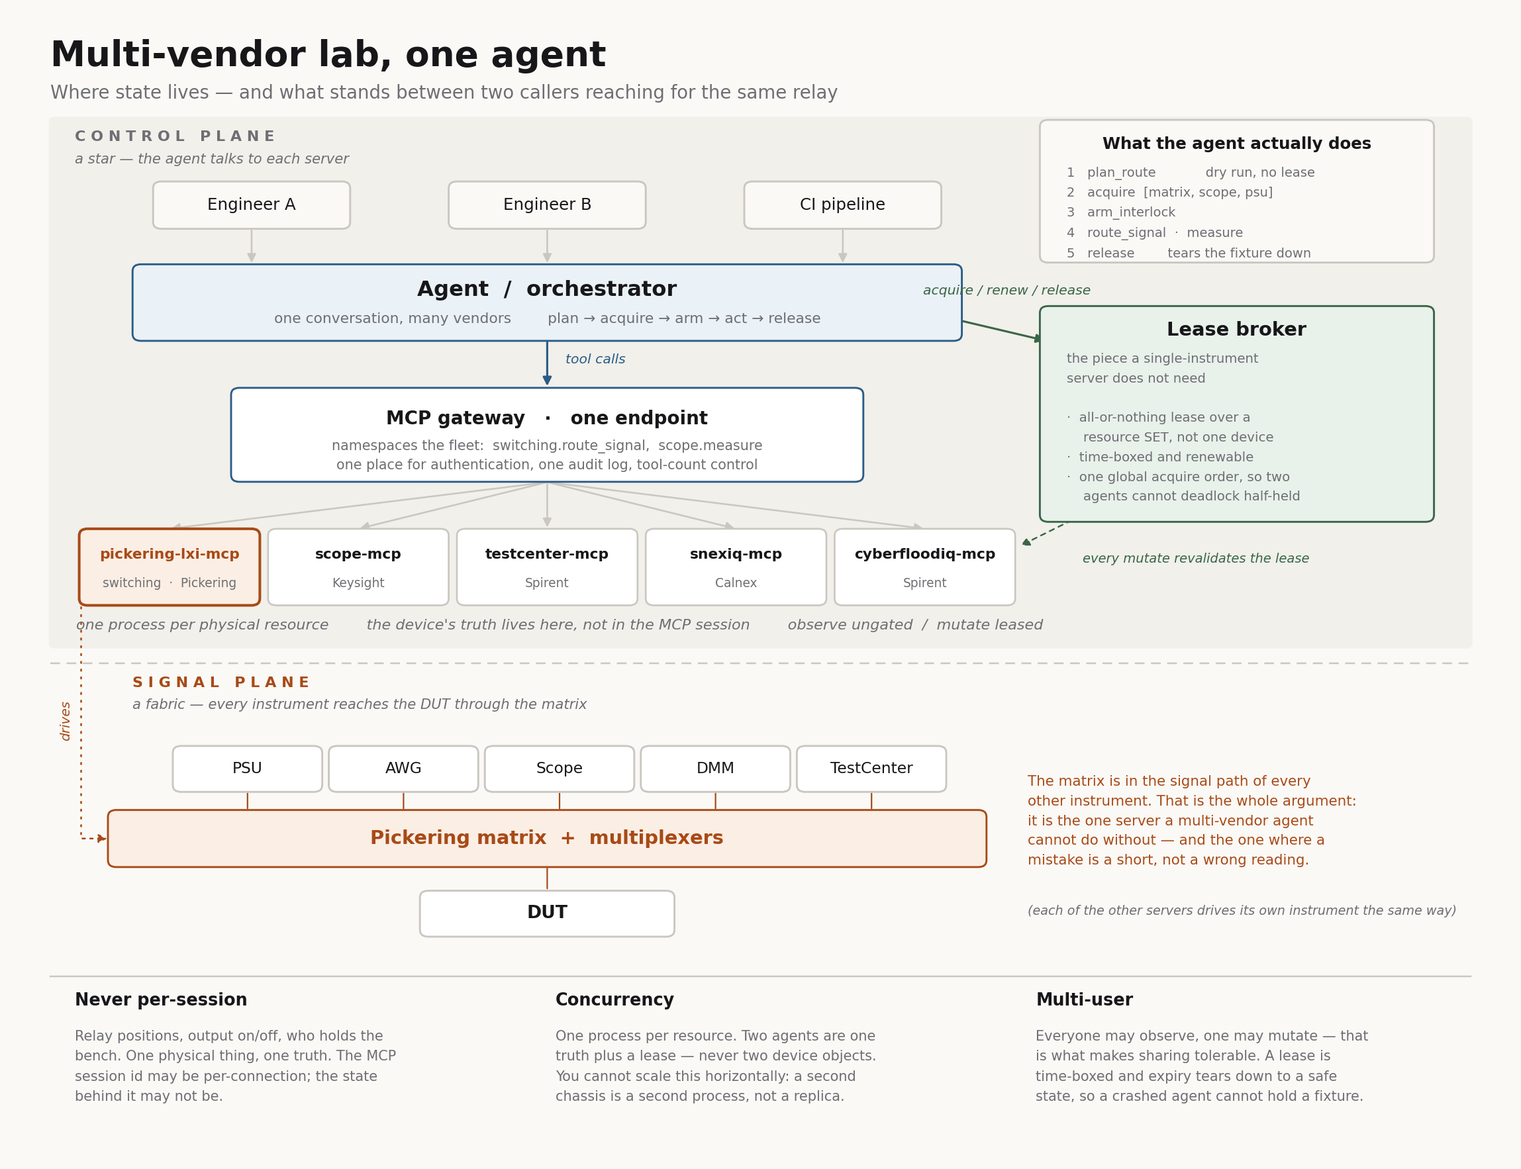
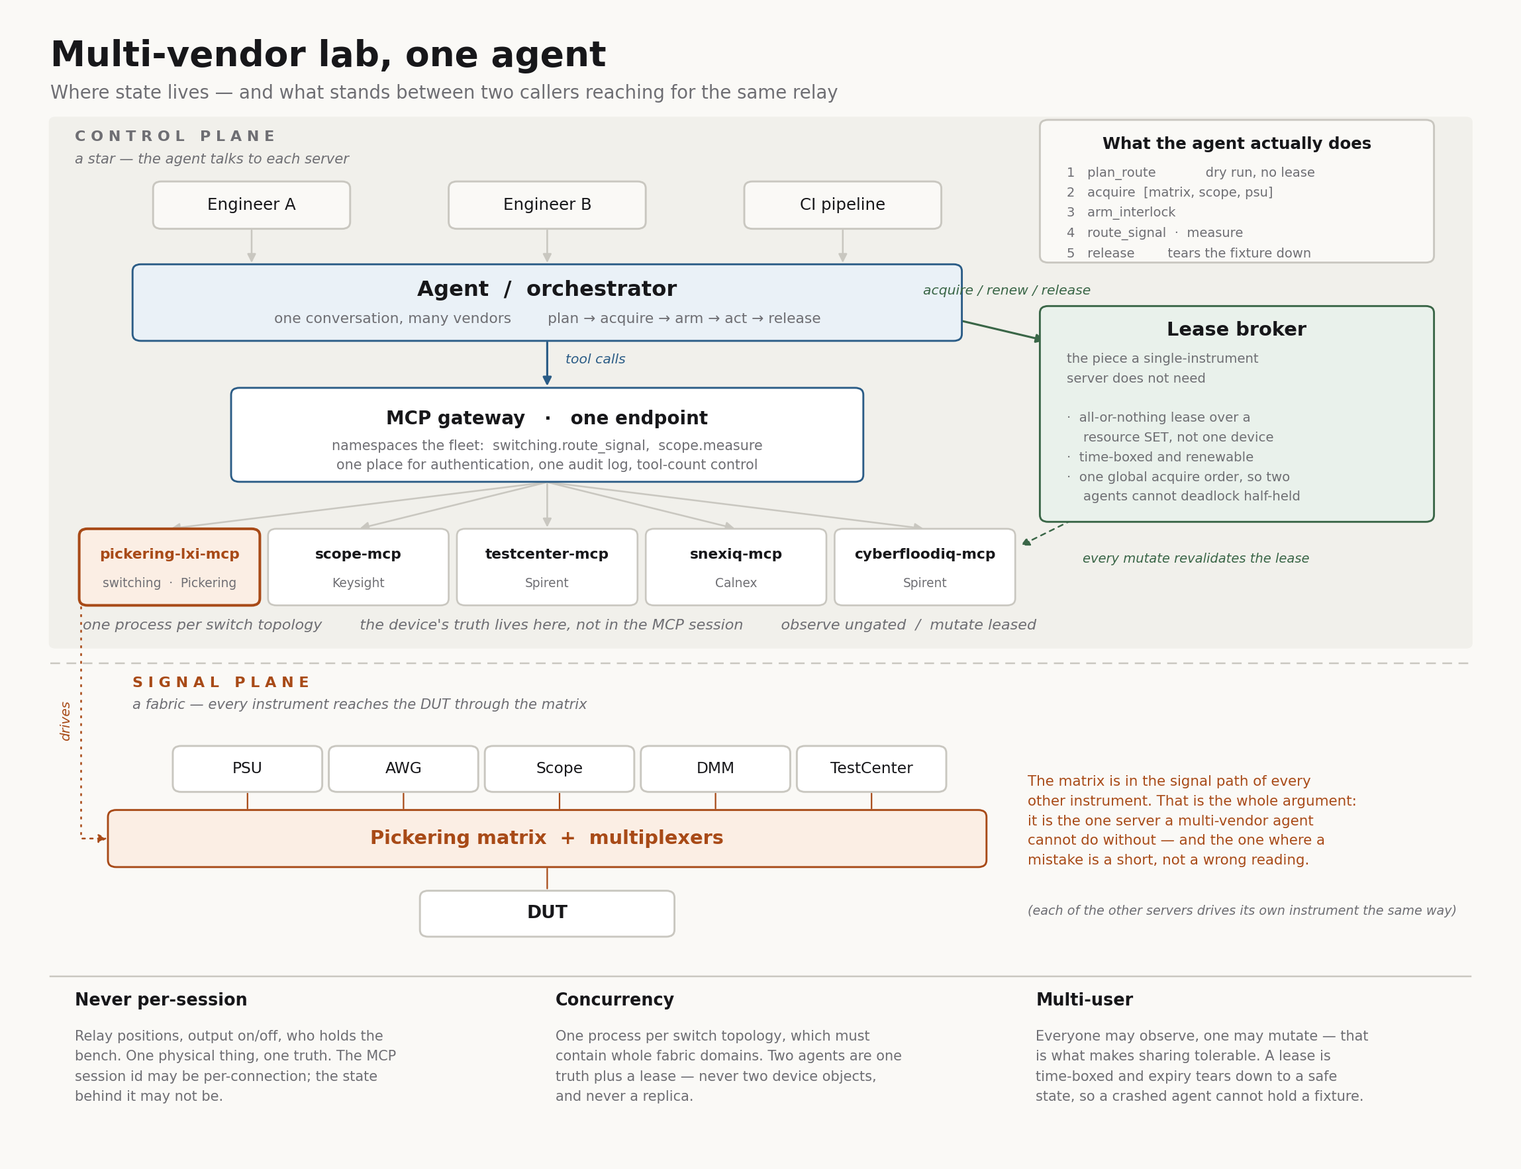
Draw the anatomy, and correct what a DUT bridge means
The picture: one bench with every term on it, keyed to a panel that names each
part. Chassis, card, subunit, line, crosspoint, endpoint, the two kinds of link,
the fabric domain drawn as a boundary around what it actually encloses, one
route, one refusal. Under it, the same bench as a single resource inside a test
topology. docs/switch-topology-anatomy.py renders it; GLOSSARY.md and README
lead with it.

The correction it forced. This glossary claimed a DUT joining two of its own
pins was an unenforceable hazard -- that no switching server could know, and
only a test topology could declare such a rule. The first half is right and the
second was wrong. A bridge is not discoverable, but it is declarable, in exactly
the shape of a patch lead: a link between the two lines those pins sit on. The
file never describes the DUT's internals, only that these two ends come out
common.

Declared, it merges the halves into one fabric domain and the interlock enforces
it like any other link. Two matrices, no patch lead, a forbidden pair spanning
them:

    UNDECLARED   domains=2   verify_topology: NOT ok, "can never fire"
       psu_pos -> dut_in     ok
       gnd     -> dut_out    ALLOWED     <- common through the DUT

    DECLARED     domains=1   verify_topology: ok
       psu_pos -> dut_in     ok
       gnd     -> dut_out    InterlockError

Which closes a loop from the previous commit rather than opening a new one: the
[…]

diff --git a/docs/switch-topology-anatomy.py b/docs/switch-topology-anatomy.py
@@ -1,0 +1,197 @@
+import matplotlib
+matplotlib.use("Agg")
+import matplotlib.pyplot as plt
+from matplotlib.patches import FancyBboxPatch, FancyArrowPatch, Circle
+from matplotlib.lines import Line2D
+
+BG, INK, MUTED, LINE = "#FAF9F6", "#17171A", "#6E6E73", "#C6C4BD"
+ACC, ACCF = "#A84A17", "#FBEEE4"
+GREEN, GREENF = "#3A6647", "#E9F1EB"
+RED = "#9A2F2F"
+DOM = "#EFE8DE"
+WHITE = "#FFFFFF"
+
+fig, ax = plt.subplots(figsize=(19.2, 14.4))
+fig.patch.set_facecolor(BG); ax.set_facecolor(BG)
+ax.set_xlim(0, 19.2); ax.set_ylim(0, 14.4); ax.axis("off")
+
+def rbox(x0, y0, x1, y1, edge=LINE, fill=WHITE, lw=1.3, r=0.10, z=2, ls="-"):
+    ax.add_patch(FancyBboxPatch((x0, y0), x1-x0, y1-y0,
+        boxstyle=f"round,pad=0.02,rounding_size={r}", linewidth=lw,
+        edgecolor=edge, facecolor=fill, zorder=z, linestyle=ls))
+
+def txt(x, y, s, size=9.2, color=INK, ha="left", va="center", weight=None,
+        style=None, rot=0, z=6, ls=1.55):
+    ax.text(x, y, s, fontsize=size, color=color, ha=ha, va=va, fontweight=weight,
+            style=style, rotation=rot, zorder=z, linespacing=ls)
+
+def tag(x, y, n, color=ACC):
+    ax.add_patch(Circle((x, y), 0.15, facecolor=color, edgecolor=WHITE, lw=1.0, zorder=8))
+    ax.text(x, y, str(n), fontsize=8.0, color=WHITE, ha="center", va="center",
+            fontweight="bold", zorder=9)
+
+txt(0.3, 14.02, "Anatomy of a switch topology", 24, INK, weight="bold")
+txt(0.3, 13.56, "One bench, every term. Numbers key to the panel on the right.", 12.2, MUTED)
+
+# ── fabric domain ────────────────────────────────────────────────────────
+rbox(1.85, 3.90, 13.05, 13.05, edge=ACC, fill=DOM, lw=1.5, r=0.16, z=0, ls=(0, (7, 4)))
+txt(2.15, 12.80, "F A B R I C   D O M A I N   ·   matrix_a/sub1", 10.2, ACC, weight="bold")
+txt(2.15, 12.52, "every line that the crosspoints, the patch lead and the declared bridge can tie together",
+    9, MUTED, style="italic")
+tag(12.78, 12.80, 10)
+
+# ── chassis ──────────────────────────────────────────────────────────────
+rbox(2.15, 7.15, 12.95, 12.30, edge=INK, fill="#F7F5F1", lw=1.6, r=0.12, z=1)
+txt(2.52, 12.08, "C H A S S I S   ·   LXI unit at 192.168.1.50", 9.6, INK, weight="bold")
+tag(2.30, 12.08, 1)
+
+ROWS = ["psu_pos", "psu_neg", "gnd", "scope_ch1", "scope_ch2", "dmm_hi", "dmm_lo", "awg_out"]
+def row_y(j): return 11.05 - 0.45 * j
+def col_x(i): return 4.45 + 0.40 * i
+
+# ── instruments ──────────────────────────────────────────────────────────
+for name, a, b in (("PSU", 0, 1), ("GND", 2, 2), ("Scope", 3, 4), ("DMM", 5, 6), ("AWG", 7, 7)):
+    y0, y1 = row_y(b) - 0.19, row_y(a) + 0.19
+    rbox(0.38, y0, 1.38, y1, lw=1.2, r=0.07, z=3)
+    txt(0.88, (y0 + y1) / 2, name, 9.4, INK, ha="center")
+    for j in range(a, b + 1):
+        ax.add_line(Line2D([1.38, 2.58], [row_y(j), row_y(j)], color=MUTED, lw=0.9, zorder=3))
+        txt(1.98, row_y(j) + 0.13, ROWS[j], 7.5, INK, ha="center")
+
+# ── matrix card ──────────────────────────────────────────────────────────
+rbox(2.55, 7.35, 11.05, 11.80, edge=ACC, fill=WHITE, lw=1.7, r=0.10, z=3)
+txt(2.90, 11.58, "card  matrix_a", 10, ACC, weight="bold")
+txt(4.42, 11.58, "·  8 × 16 matrix  ·  closure limit 12  ·  settle 3 ms", 8.8, MUTED)
+tag(2.72, 11.58, 2)
+rbox(3.52, 7.58, 10.92, 11.32, edge=ACC, fill="#FEFAF7", lw=1.0, r=0.06, z=3, ls=(0, (4, 3)))
+txt(3.98, 11.18, "subunit 1", 8.6, ACC, style="italic")
+tag(3.72, 11.18, 3)
+
+for j in range(8):
+    ax.add_line(Line2D([3.62, 10.82], [row_y(j), row_y(j)], color=LINE, lw=0.8, zorder=4))
+for i in range(16):
+    ax.add_line(Line2D([col_x(i), col_x(i)], [7.80, 11.18], color=LINE, lw=0.8, zorder=4))
+    txt(col_x(i), 7.66, str(i + 1), 7.0, MUTED, ha="center")
+txt(4.42, 11.44, "columns  1–12 → DUT pins a1–a12   ·   13, 14 → patch leads to mux_b   ·   15, 16 spare",
+    7.6, MUTED, style="italic")
+
+for j in range(8):
+    for i in range(16):
+        ax.add_patch(Circle((col_x(i), row_y(j)), 0.042, facecolor=WHITE,
+                            edgecolor=MUTED, linewidth=0.7, zorder=5))
+for j, i in ((0, 0), (5, 0), (3, 12)):
+    ax.add_patch(Circle((col_x(i), row_y(j)), 0.078, facecolor=ACC, edgecolor=ACC, zorder=6))
+
+rj, ri = 2, 0
+ax.add_patch(Circle((col_x(ri), row_y(rj)), 0.115, facecolor=WHITE, edgecolor=RED, lw=1.6, zorder=6))
+for d in (1, -1):
+    ax.add_line(Line2D([col_x(ri)-0.07, col_x(ri)+0.07],
+                       [row_y(rj)-0.07*d, row_y(rj)+0.07*d], color=RED, lw=1.5, zorder=7))
+
+tag(col_x(0) - 0.34, row_y(0) - 0.22, 6)
+tag(col_x(0) - 0.34, row_y(2) - 0.24, 12, RED)
+tag(col_x(7), row_y(6) - 0.30, 5)
+tag(2.50, row_y(3) + 0.13, 7)
+tag(col_x(15) + 0.32, row_y(4), 4)
+tag(col_x(12) + 0.30, row_y(3) + 0.26, 11)
+
+# ── mux card ─────────────────────────────────────────────────────────────
+rbox(11.22, 8.60, 12.88, 11.32, edge=ACC, fill=WHITE, lw=1.5, r=0.08, z=3)
+txt(12.05, 11.10, "card  mux_b", 9.2, ACC, weight="bold", ha="center")
+txt(12.05, 10.82, "subunit 1 · MUX 1×16\none channel at a time", 7.7, MUTED, ha="center")
+ax.add_line(Line2D([11.36, 12.76], [10.35, 10.35], color=MUTED, lw=1.3, zorder=4))
+txt(11.36, 10.50, "common", 7.5, MUTED)
+for k in range(6):
+    x = 11.46 + 0.26 * k
+    ax.add_line(Line2D([x, x], [10.35, 9.35], color=LINE, lw=0.8, zorder=4))
+    ax.add_patch(Circle((x, 10.35), 0.042, facecolor=WHITE, edgecolor=MUTED, lw=0.7, zorder=5))
+    if k < 4:
+        txt(x, 9.26, f"tc_{k+1}", 7.0, INK, ha="right", rot=90, va="top")
+
+ax.add_patch(FancyArrowPatch((col_x(12), 7.35), (11.30, 10.35), arrowstyle="-",
+    linewidth=2.4, color=ACC, alpha=0.85, connectionstyle="arc3,rad=-0.30", zorder=4))
+txt(11.95, 8.18, "patch lead", 8.6, ACC, ha="center", style="italic", weight="bold")
+tag(11.32, 8.02, 8)
+
+# ── DUT ──────────────────────────────────────────────────────────────────
+for i in range(6):
+    ax.add_line(Line2D([col_x(i), col_x(i)], [7.35, 6.15], color=MUTED, lw=0.9, zorder=3))
+rbox(3.95, 4.55, 8.25, 6.15, edge=INK, fill=WHITE, lw=1.5, r=0.08, z=4)
+txt(8.05, 5.86, "DUT", 12.5, INK, weight="bold", ha="right")
+txt(8.05, 5.46, "not an instrument, not a card,\nnot addressable by any driver", 8.3, MUTED,
+    ha="right", style="italic")
+for i in range(6):
+    txt(col_x(i), 6.02, f"a{i+1}", 7.2, MUTED, ha="center")
+ax.add_patch(FancyArrowPatch((col_x(0), 5.80), (col_x(3), 5.80), arrowstyle="-",
+    linewidth=1.7, color=RED, linestyle=(0, (3, 2.5)),
+    connectionstyle="arc3,rad=0.60", zorder=5))
+txt(5.05, 4.90, "internal bridge", 8.4, RED, ha="center", style="italic")
+
+ax.add_patch(FancyArrowPatch((col_x(0), 6.55), (col_x(3), 6.55), arrowstyle="-",
+    linewidth=2.3, color=ACC, linestyle=(0, (4, 3)),
+    connectionstyle="arc3,rad=-0.62", zorder=5))
+txt(4.20, 6.80, "declared\nbridge", 8.4, ACC, ha="right", style="italic", weight="bold")
+tag(4.02, 6.42, 9)
+
+txt(8.62, 6.58, "The DUT joins a1 to a4 inside itself.", 9.4, INK, va="top", weight="bold")
+txt(8.62, 6.24,
+    "No driver can see that — connectivity through a\n"
+    "bridge is a property of the bridge. But it is\n"
+    "declarable, in exactly the shape of a patch lead:\n"
+    "a link between the two lines those pins sit on.\n"
+    "The file never describes the DUT's internals, only\n"
+    "that these two ends come out common.\n\n"
+    "Declared, it merges the halves into one domain and\n"
+    "the interlock holds. Undeclared, gnd → a1 would\n"
+    "have been allowed.",
+    8.5, MUTED, va="top", ls=1.6)
+
+# ── legend ───────────────────────────────────────────────────────────────
+LX = 13.35
+rbox(LX, 3.28, 18.95, 13.05, lw=1.2, r=0.10, z=2)
+txt(LX + 0.32, 12.75, "What each part is called", 12.8, INK, weight="bold")
+
+items = [
+    (1, "Chassis", "The enclosure. Reached over IP as an LXI unit, or\nthrough the backplane as local PXI."),
+    (2, "Card", "One switching module, addressed by (bus, device),\ngiven an alias so nothing downstream knows the slot."),
+    (3, "Subunit", "An independently addressed block on a card. The floor\nof a fabric domain — never split across one."),
+    (4, "Line", "A row or a column. Say row, column or endpoint —\nnever \"port\", which means both of them here."),
+    (5, "Crosspoint", "The relay at one (row, column). Closing it makes that\nrow and that column common. The atom of everything."),
+    (6, "Closed crosspoint", "Three here: psu_pos→a1, dmm_hi→a1 (measuring a\npowered pin is fine), scope_ch1→the patch lead."),
+    (7, "Endpoint", "A name bound to exactly one line. What every tool\ntakes and returns; crosspoints are an internal detail."),
+    (8, "Link — patch lead", "A hard-wired connection between two lines. Traversed\nwhen routing, never switched, always counted in safety."),
+    (9, "Link — declared bridge", "The same mechanism for what is not a cable: the DUT\njoining two pins. Declaring it makes it enforceable."),
+    (10, "Fabric domain", "Everything the above ties together. 28 endpoints, one\ndomain — computed from the file, never declared."),
+    (11, "Route", "A path applied and held open, owned and reference-\ncounted. Never crosses a domain boundary."),
+    (12, "Refusal", "gnd→a1 would make psu_pos and gnd common through the\nDUT bridge — checked before any relay moves."),
+]
+y = 12.42
+for n, name, body in items:
+    tag(LX + 0.44, y, n, RED if n == 12 else ACC)
+    txt(LX + 0.76, y, name, 9.5, INK, weight="bold")
+    txt(LX + 0.76, y - 0.23, body, 7.8, MUTED, va="top", ls=1.5)
+    y -= 0.74
+
+# ── bottom strip ─────────────────────────────────────────────────────────
+rbox(0.3, 0.45, 18.95, 3.20, edge=GREEN, fill=GREENF, lw=1.4, r=0.12, z=1)
+txt(0.65, 2.92, "T E S T   T O P O L O G Y   —   the contract, held whole under one reservation",
+    10.8, GREEN, weight="bold")
+txt(0.65, 2.60, "Everything above is ONE resource in it. The contract names several, and the connections between them. A resource lost mid-run voids the reservation rather than degrading it.",
+    9.1, MUTED, style="italic")
+for cx, w, name, sub, hot in (
+    (3.55, 3.9, "pickering-lxi-mcp", "everything above\n= one switch topology", True),
+    (8.30, 2.7, "scope-mcp", "Keysight", False),
+    (12.55, 2.7, "testcenter-mcp", "Spirent", False),
+    (16.65, 3.3, "DUT", "no server, no driver —\nonly what the contract asserts", False)):
+    rbox(cx - w/2, 0.80, cx + w/2, 2.05, edge=ACC if hot else LINE,
+         fill=ACCF if hot else WHITE, lw=1.6 if hot else 1.2, r=0.08, z=3)
+    txt(cx, 1.70, name, 10, ACC if hot else INK, weight="bold", ha="center")
+    txt(cx, 1.24, sub, 8.4, MUTED, ha="center")
+for a, wa, b, wb in ((3.55, 3.9, 8.30, 2.7), (8.30, 2.7, 12.55, 2.7), (12.55, 2.7, 16.65, 3.3)):
+    ax.add_line(Line2D([a + wa/2, b - wb/2], [1.42, 1.42], color=GREEN, lw=1.0,
+                       linestyle=(0, (3, 3)), zorder=2))
+
+plt.savefig(
+    "switch-topology-anatomy.png",
+            dpi=150, facecolor=BG, bbox_inches="tight", pad_inches=0.32)
+print("ok")

diff --git a/tests/test_fabric_domains.py b/tests/test_fabric_domains.py
@@ -271,3 +271,84 @@ def test_a_rule_inside_one_domain_is_not_reported():
     body["interlocks"]["forbidden_pairs"] = [["psu_pos", "gnd"]]
     report = make_session(Topology(body)).verify_topology()
     assert [p for p in report["problems"] if "can never fire" in p] == []
+
+
+# --------------------------------------------------------------------------
+# A DUT that joins two of its own pins is not discoverable and IS declarable.
+# Declared, it is enforced like any other link; undeclared, verify_topology is
+# what notices, because the rule it disarms becomes unreachable.
+# --------------------------------------------------------------------------
+
+
+def two_halves(bridge: bool) -> Topology:
+    """Two matrices, no patch lead. The only thing that can join them is the DUT."""
+    body = {
+        "name": "two-halves",
+        "cards": {
+            "m1": {"bus": 1, "device": 1,
+                   "subunits": [{"subunit": 1, "type": "MATRIX", "rows": 3, "columns": 4}]},
+            "m2": {"bus": 1, "device": 2,
+                   "subunits": [{"subunit": 1, "type": "MATRIX", "rows": 3, "columns": 4}]},
+        },
+        "endpoints": {
+            "psu_pos": {"card": "m1", "subunit": 1, "line": "row", "index": 1},
+            "dut_in": {"card": "m1", "subunit": 1, "line": "column", "index": 1},
+            "gnd": {"card": "m2", "subunit": 1, "line": "row", "index": 1},
+            "dut_out": {"card": "m2", "subunit": 1, "line": "column", "index": 1},
+        },
+        "links": [],
+        "interlocks": {"require_arm": False, "forbidden_pairs": [["psu_pos", "gnd"]]},
+    }
+    if bridge:
+        body["links"] = [[
+            {"card": "m1", "subunit": 1, "line": "column", "index": 1},
+            {"card": "m2", "subunit": 1, "line": "column", "index": 1},
+        ]]
+    return Topology(body)
+
+
+def test_a_declared_dut_bridge_merges_the_domains_and_is_enforced():
+    topology = two_halves(bridge=True)
+    assert len(topology.fabric_domains()) == 1, "the bridge makes the two halves one fabric"
+
+    session = make_session(topology)
+    assert session.verify_topology()["ok"] is True
+
+    token = session.reserve(owner="pytest").token
+    session.route(token, "psu_pos", "dut_in")
+
+    from pickering_lxi_mcp.errors import InterlockError
+
+    with pytest.raises(InterlockError, match="electrically common"):
+        session.route(token, "gnd", "dut_out")
+
+
+def test_an_undeclared_dut_bridge_is_not_enforceable_and_verify_says_so():
+    """The hazard, and the only warning available: the rule it disarms is unreachable."""
+    topology = two_halves(bridge=False)
+    assert len(topology.fabric_domains()) == 2
+
+    session = make_session(topology)
+    report = session.verify_topology()
+    assert report["ok"] is False
+    assert any("can never fire" in p for p in report["problems"])
+
+    token = session.reserve(owner="pytest").token
+    session.route(token, "psu_pos", "dut_in")
+    # Nothing refuses this, because nothing in the file says the DUT joins the halves.
+    assert session.route(token, "gnd", "dut_out")["status"] == "open"
+
+
+def test_declaring_a_bridge_is_the_conservative_direction():
+    """A DUT whose internal path is conditional should still be declared.
+
+    Declaring over-connects the graph, so the interlock refuses more than it
+    strictly must. Over-refusing is the failure direction you want.
+    """
+    declared = make_session(two_halves(bridge=True))
+    token = declared.reserve(owner="pytest").token
+    declared.route(token, "psu_pos", "dut_in")
+
+    plan = declared.plan("gnd", "dut_out")
+    assert plan["permitted"] is False
+    assert "electrically common" in plan["refusal"]

diff --git a/docs/multi-vendor-architecture.py b/docs/multi-vendor-architecture.py
@@ -109,7 +109,7 @@ ax.text(12.72, 5.72, "every mutate revalidates the lease", fontsize=8.8, color=G
         ha="left", va="center", style="italic")
 
 ax.text(6.35, 4.70,
-        "one process per physical resource        the device's truth lives here, not in the MCP session        observe ungated  /  mutate leased",
+        "one process per switch topology        the device's truth lives here, not in the MCP session        observe ungated  /  mutate leased",
         fontsize=10, color=MUTED, ha="center", style="italic")
 
 # ── divider ──────────────────────────────────────────────────────────────
@@ -150,7 +150,7 @@ rules = [
     ("Never per-session",
      "Relay positions, output on/off, who holds the\nbench. One physical thing, one truth. The MCP\nsession id may be per-connection; the state\nbehind it may not be."),
     ("Concurrency",
-     "One process per resource. Two agents are one\ntruth plus a lease — never two device objects.\nYou cannot scale this horizontally: a second\nchassis is a second process, not a replica."),
+     "One process per switch topology, which must\ncontain whole fabric domains. Two agents are one\ntruth plus a lease — never two device objects,\nand never a replica."),
     ("Multi-user",
      "Everyone may observe, one may mutate — that\nis what makes sharing tolerable. A lease is\ntime-boxed and expiry tears down to a safe\nstate, so a crashed agent cannot hold a fixture."),
 ]
@@ -159,6 +159,7 @@ for i, (h, body) in enumerate(rules):
     ax.text(x, -0.70, h, fontsize=11.5, fontweight="bold", color=INK)
     ax.text(x, -1.05, body, fontsize=9.4, color=MUTED, va="top", linespacing=1.65)
 
-plt.savefig("/tmp/claude-0/-home-claude/c6a8c407-134b-54cf-aa01-7277a4913801/scratchpad/arch.png",
+plt.savefig(
+    "multi-vendor-architecture.png",
             dpi=160, facecolor=BG, bbox_inches="tight", pad_inches=0.36)
 print("ok")

diff --git a/docs/deployment-and-transports.py b/docs/deployment-and-transports.py
@@ -176,6 +176,7 @@ listbox(14.98, 1.60, 5.60, 1.90, "Scaling to N racks", [
     "not a bigger gateway.",
 ], edge=LINE, fill=BG, ts=12.5, ss=8.9)
 
-plt.savefig("/tmp/claude-0/-home-claude/c6a8c407-134b-54cf-aa01-7277a4913801/scratchpad/deploy.png",
+plt.savefig(
+    "deployment-and-transports.png",
             dpi=160, facecolor=BG, bbox_inches="tight", pad_inches=0.36)
 print("ok")

diff --git a/GLOSSARY.md b/GLOSSARY.md
@@ -8,6 +8,10 @@ Four of these terms are coined here — **fabric domain**, **unowned crosspoint*
 vocabulary or ordinary MCP vocabulary, and where this project's usage is narrower than the
 common one, that is called out.
 
+![Anatomy of a switch topology](docs/switch-topology-anatomy.png)
+
+*Every term below, on one bench. The numbers in the figure key to the panel beside it.*
+
 ---
 
 ## 1  The hardware, as the driver describes it
@@ -254,12 +258,34 @@ is no path through relays, and inventing one would be a lie about the fixture. T
 real; it lives in the test topology, which knows about the DUT. Segment ownership stays with each
 server, end-to-end ownership belongs to the contract.
 
-**The safety consequence is a real limit, not a gap in the implementation.** If the DUT connects
-its input to its output internally, domains A and B are electrically common *through the DUT*, and
-no switching server can know — connectivity through a bridge element is a property of the bridge,
-not of anybody's driver. A forbidden pair spanning that bridge cannot be enforced by any single
-server, and the interlock here does not claim to. Only the test topology is positioned to declare
-such a rule, and even then it is asserting something about the DUT that nothing verifies.
+### A DUT that bridges two domains
+
+If the DUT joins its input to its output internally, domains A and B really are electrically common
+through it. No driver can *discover* that — connectivity through a bridge element is a property of
+the bridge, not of anyone's instrument.
+
+But it is **declarable**, in exactly the shape of a patch lead: a link between the two lines those
+pins sit on. The file never describes the DUT's internals, only that these two ends come out
+common. Declared, the two halves become one fabric domain and the interlock enforces the bridge
+like any other link:
+
+```
+DUT bridge UNDECLARED   domains = 2   verify_topology: NOT ok — "can never fire"
+   psu_pos → dut_in     ok
+   gnd     → dut_out    ALLOWED       ← supply and ground now common through the DUT
+
+DUT bridge DECLARED     domains = 1   verify_topology: ok
+   psu_pos → dut_in     ok
+   gnd     → dut_out    InterlockError
+```
+
+So this is not an unenforceable hazard. It is the same class as a patch lead — a *documentation*
+hazard — and the same check catches it: undeclared, the `psu_pos`/`gnd` rule spans two domains,
+which is exactly the unreachable rule `verify_topology` reports.
+
+When the DUT's internal path is *conditional* — a mode, an internal relay, powered versus
+unpowered — declare it anyway. Declaring over-connects the graph, so the interlock refuses more
+than it strictly must, and over-refusing is the failure direction you want.
 
 ### The unit of ownership
 

diff --git a/README.md b/README.md
@@ -96,6 +96,8 @@ Three consequences worth naming:
 
 **A topology is a claim about the rack.** `verify_topology` checks it against what the chassis actually reports — which is trivially true on the simulator, and is exactly what catches a topology written for last quarter's rack.
 
+![Anatomy of a switch topology](docs/switch-topology-anatomy.png)
+
 Terms used precisely here — *fabric domain*, *unowned crosspoint*, *endpoint*, *reservation* as
 distinct from *lease* — are defined with worked examples in **[GLOSSARY.md](GLOSSARY.md)**.
 
